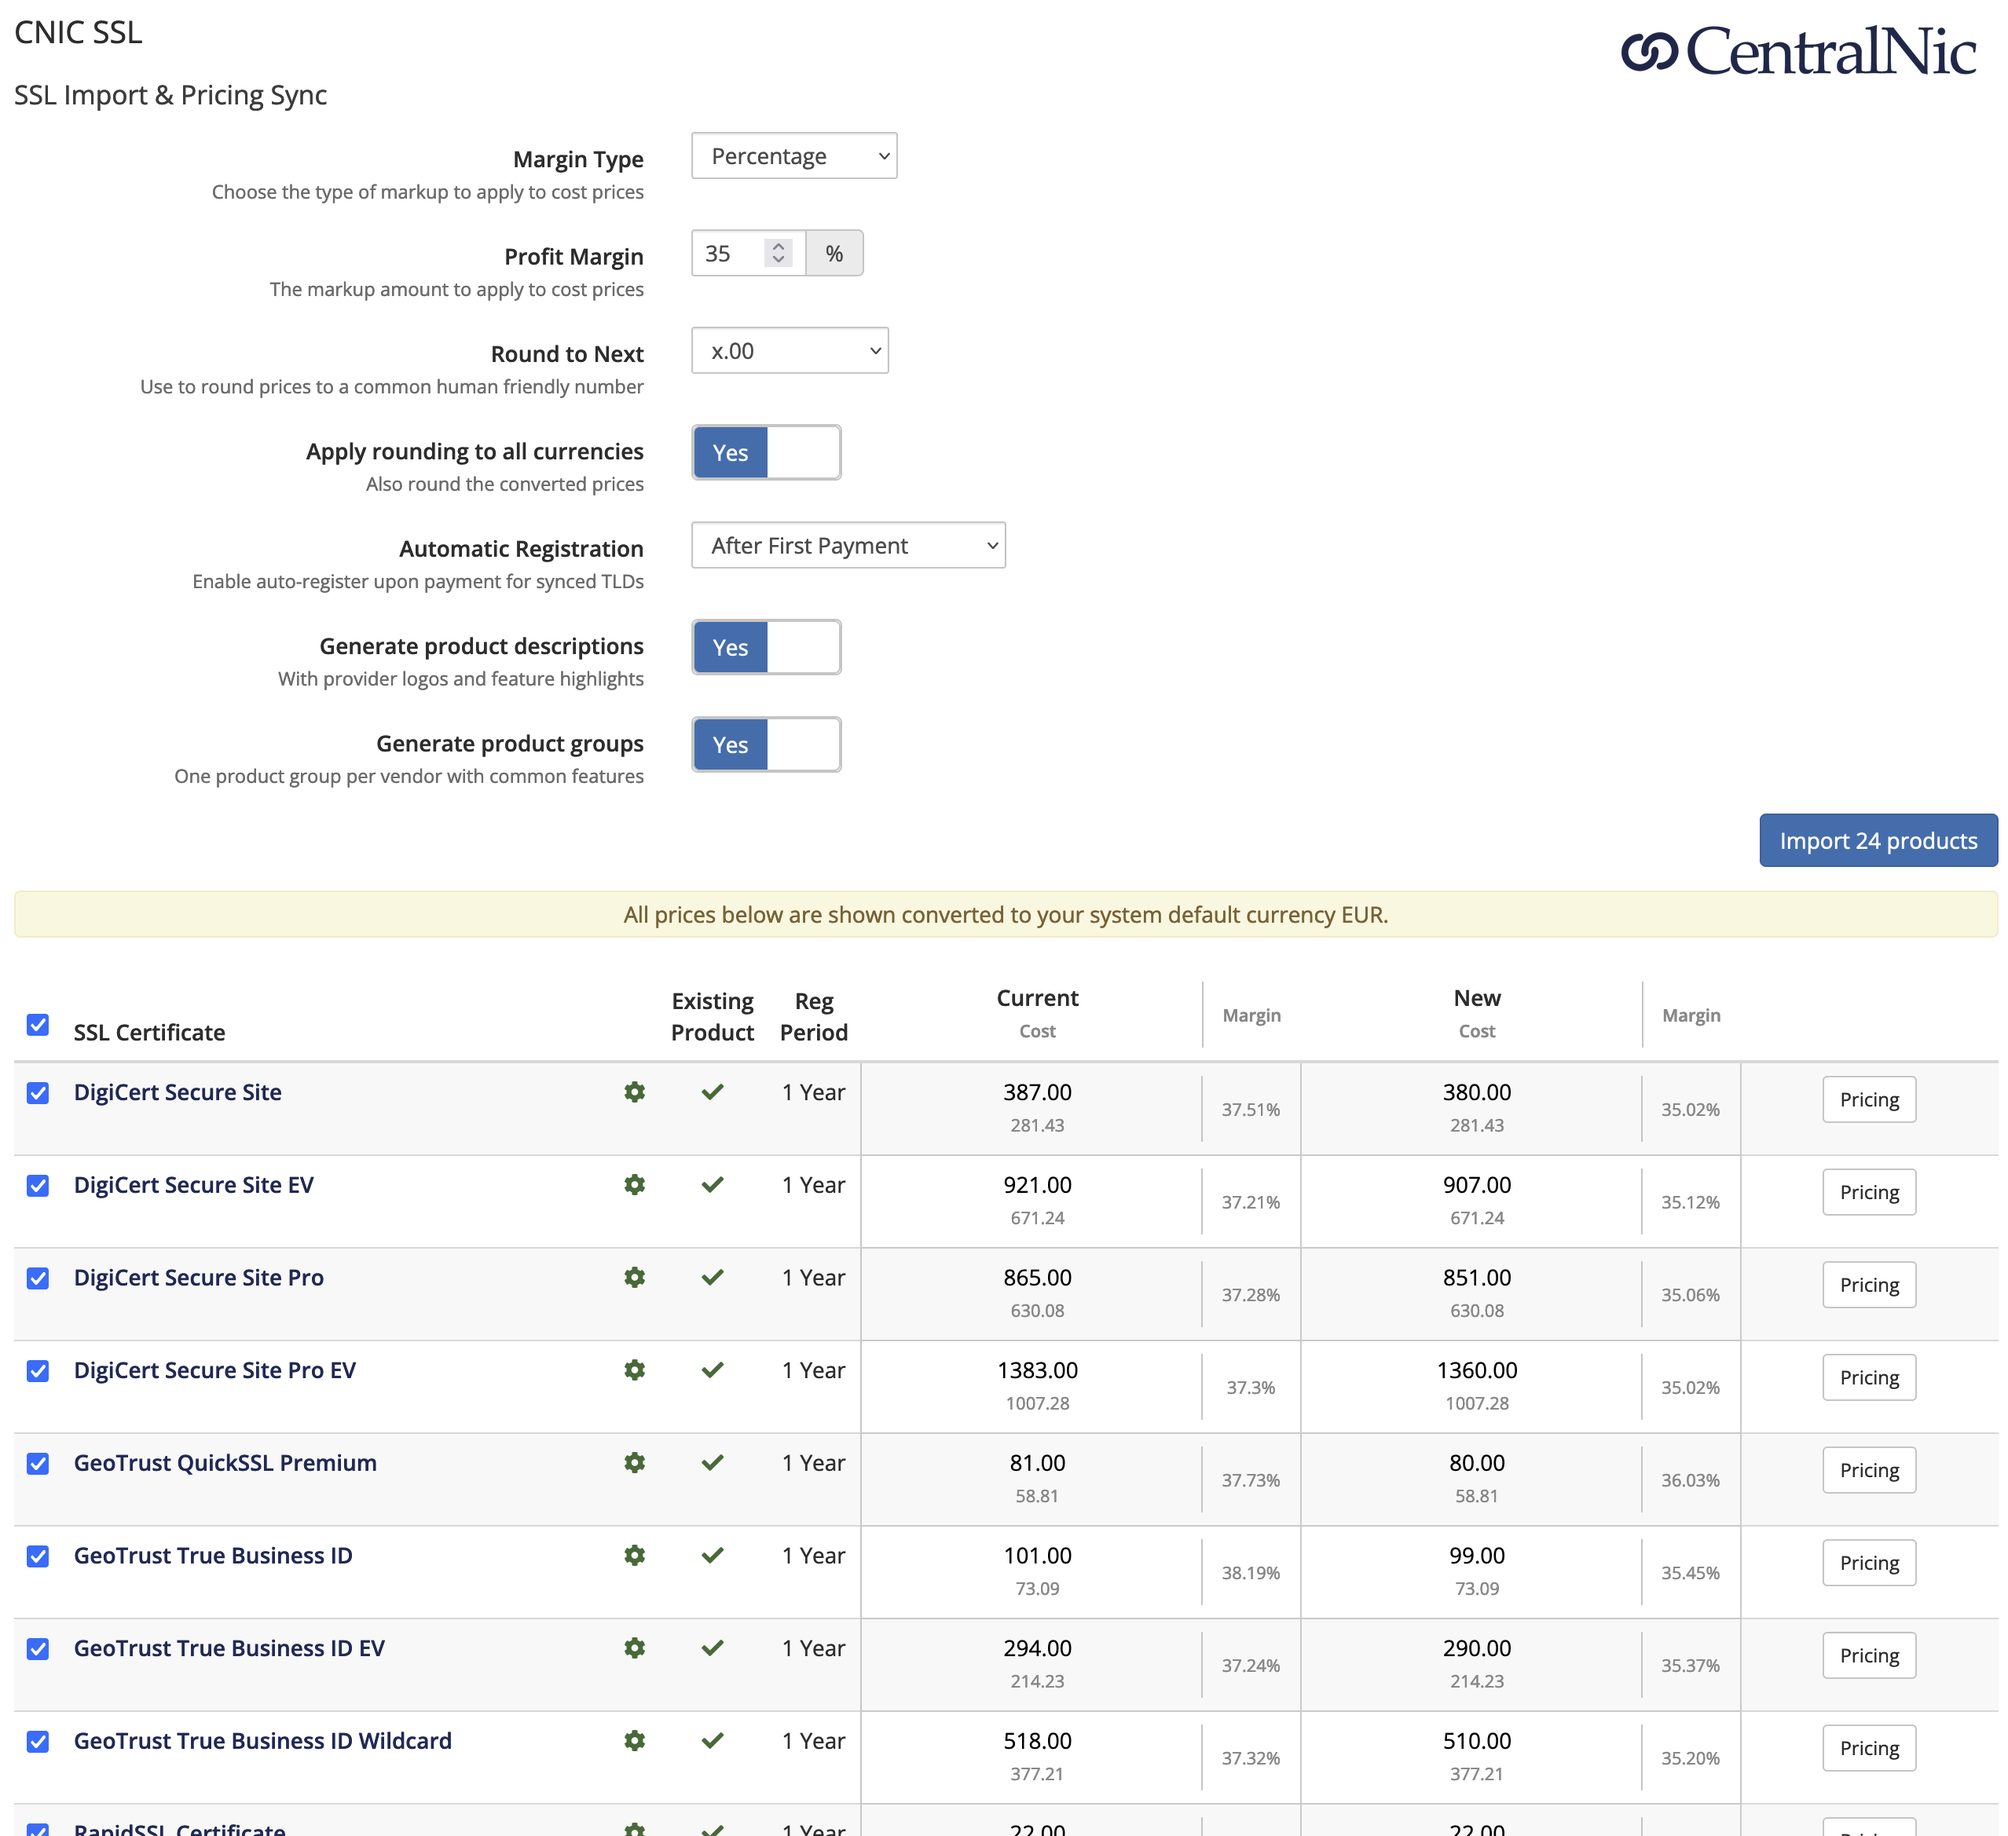
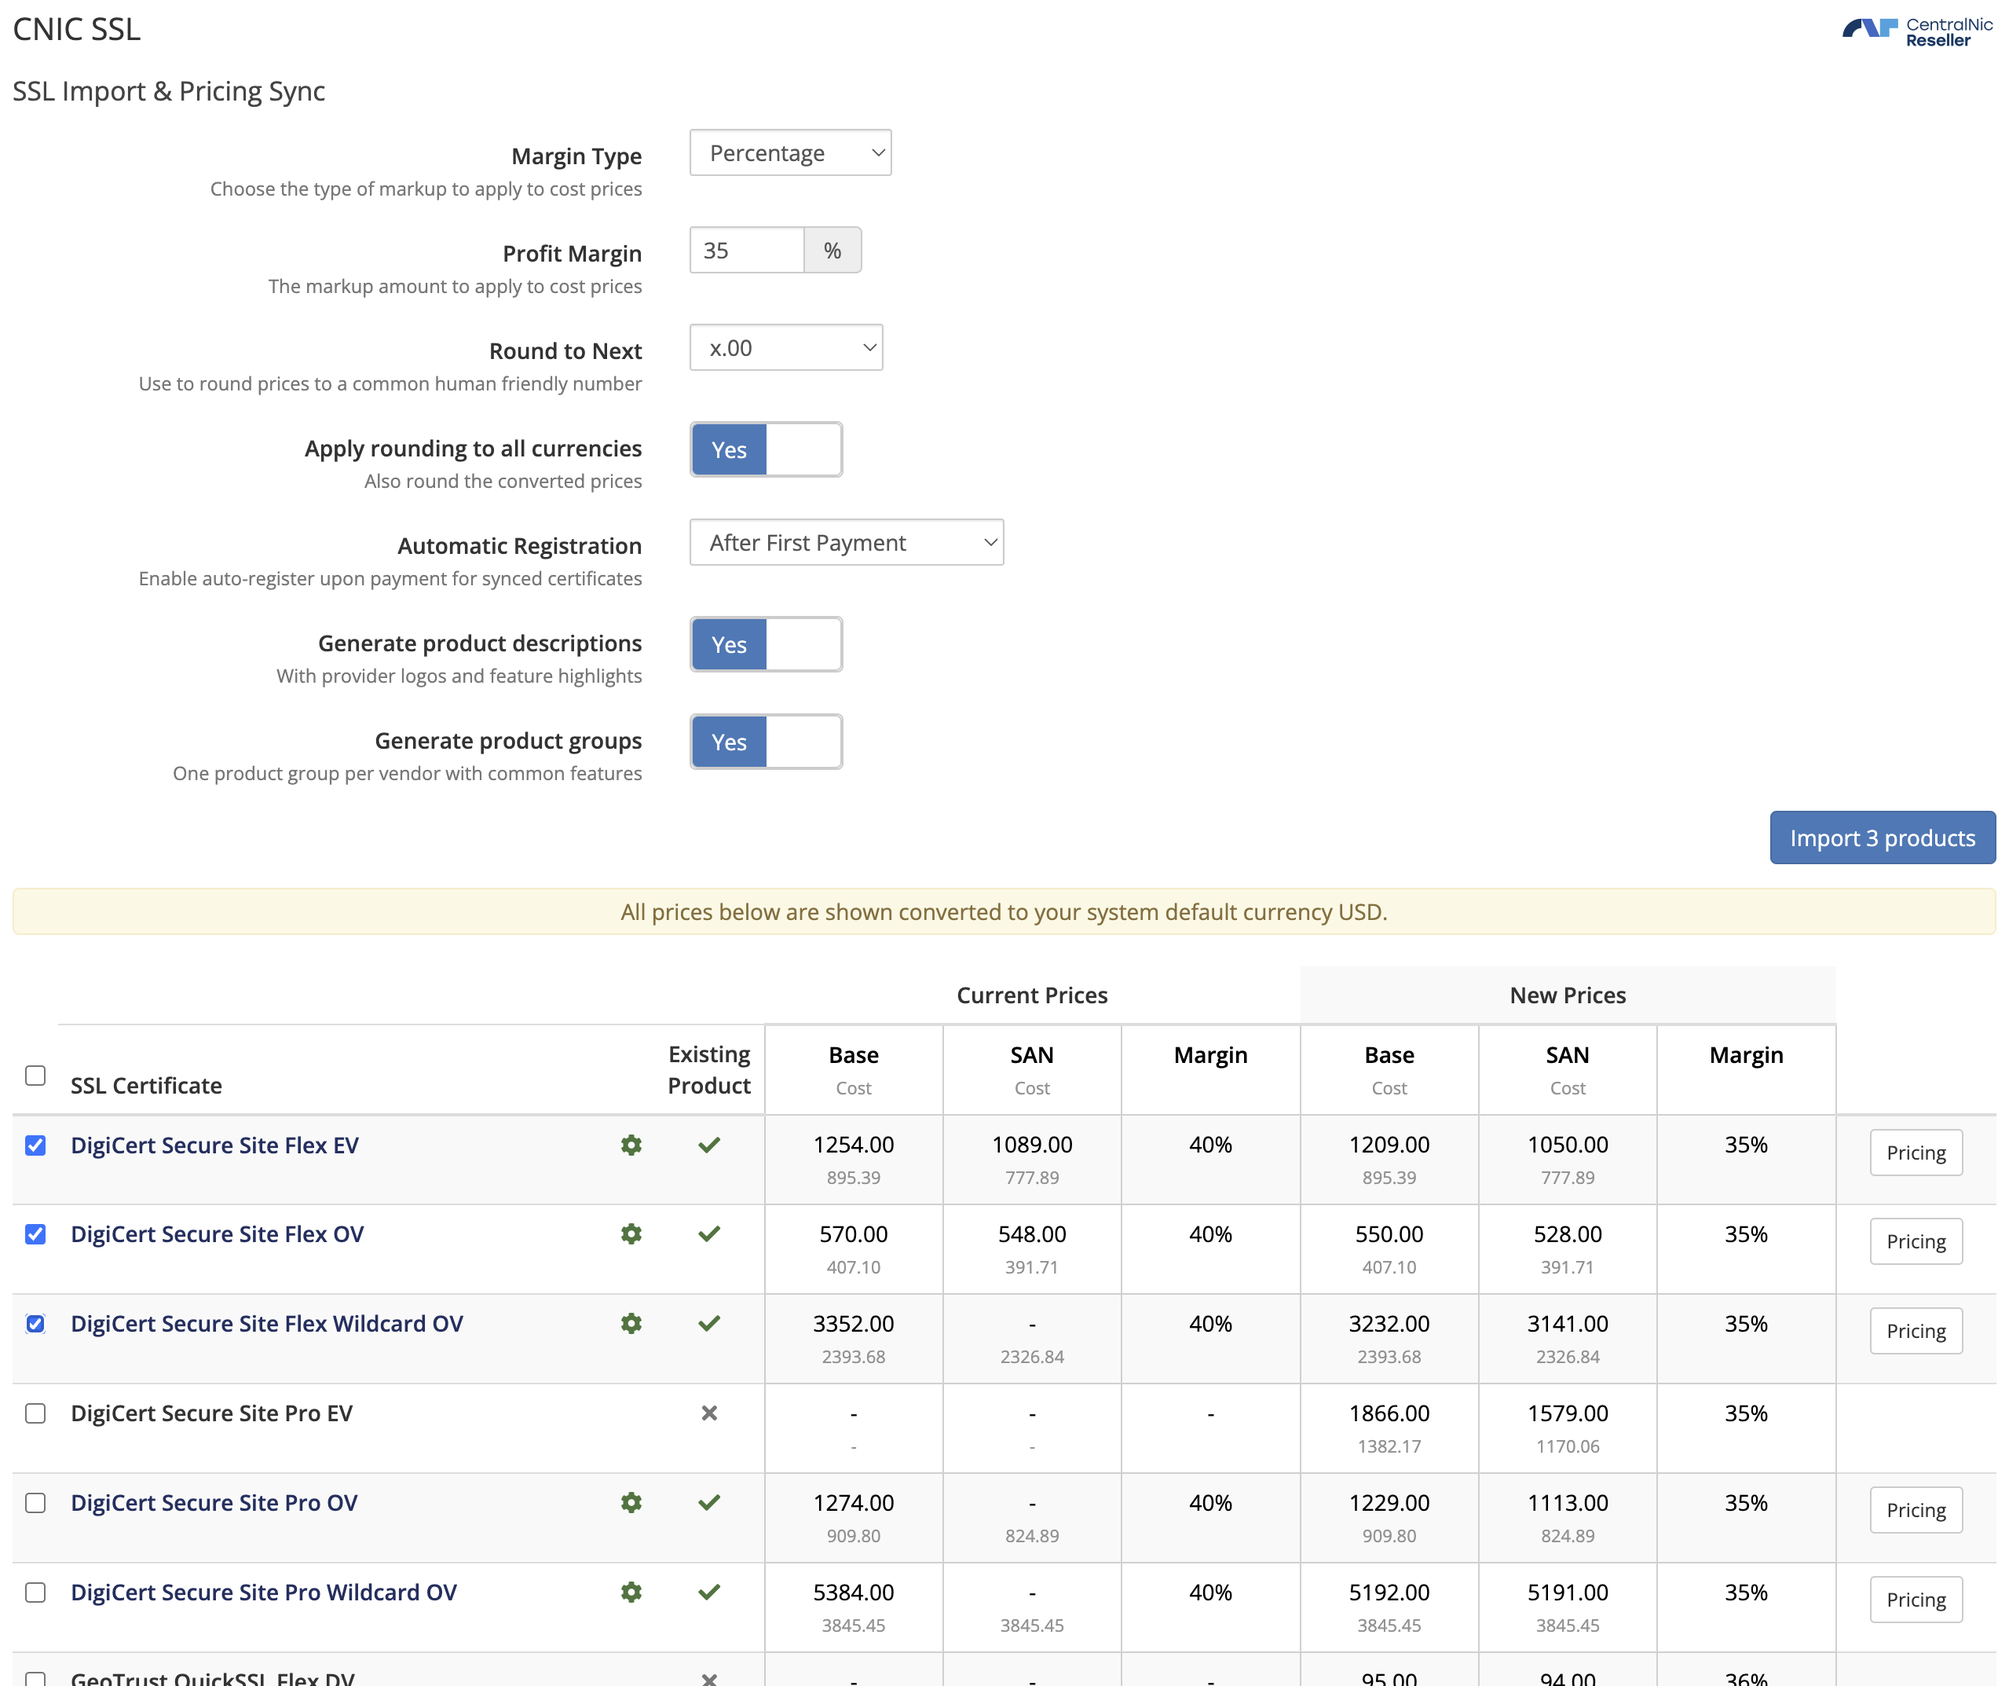
docs(whmcs ssl): update documentation for new CNR features

diff --git a/_includes/whmcs-ssl.md b/_includes/whmcs-ssl.md
@@ -19,6 +19,7 @@ The CNIC SSL Module supports the following functions and features:
   - Support for both productive and test (OT&E) environments
   - Create, renew and revoke certificates
   - Support for Email, DNS and File based domain validation methods
+  - Support for certificates with multiple domains (SAN - CentralNic Reseller only)
 - SSL addon
   - Import available SSL certificates
   - Bulk price update by using a profit margin
@@ -50,6 +51,14 @@ Extract/copy all contents from the zip archive to your WHMCS installation root d
 ### Upgrading
 
 {% include whmcs-bundle-upgrade.md %}
+
+### CentralNic Reseller API Upgrade
+
+If you were using an older version of this module and still have legacy certificates, you will need to trigger the certificate migration to the new API v2.
+To check if you have any legacy certificates, log in to your CentralNic Reseller Web Interface and navigatre to `SSL` > `Certificates [LEGACY]`. Please note that only active certificates will be migrated.
+
+To migrate legacy certificates, you must open the `CNIC SSL` Addon. Migration will then happen automatically.
+If you do not have the Addon installed or enabled, please follow the instructions below.
 
 ## SSL Addon
 
@@ -98,6 +107,7 @@ However it is possible to do so manually, if desired.
 Within the WHMCS Admin area, navigate to `Setup > System Settings > Products/Services`
 
 1. Create a new product group. In this example, we will name the new group as “SSL Certificates”.
+
 2. Create a new product.
    - Set Product Type to "Other".
    - Set Product Group as desired.
@@ -125,16 +135,40 @@ Within the WHMCS Admin area, navigate to `Setup > System Settings > Products/Ser
      - For CentralNic Reseller:
        1. Log into your [Web Interface](https://account.centralnicreseller.com/)
        2. In the Menu, open `SSL > Certificate Prices`
-       3. The value shown in the `Type` column would be the certificate class you need to specify
+       3. The value shown in the `Item` column would be the certificate class you need to specify
    - Set “Automatically setup the product as soon as the first payment is received” to ensure the certificate is paid for before registration.
 
      ![Module Settings]({{ 'assets/images/whmcs/cnic-ssl/modulesettings_tab.png' | relative_url }})
 
 6. Click `Save changes`.
 
+### Manually create Configurable Options (CentralNic Reseller only!)
+
+This allows you to offer additional domains (SAN) with an additional fee to your customers.
+
+Within the WHMCS Admin area, navigate to `Setup > System Settings > Configurable Options`
+
+1. Click `Create a New Group`
+   - Give it a name. We recommend somthing like "Certificate name - Options".
+   - Assign it to the desired certificate.
+   - Click `Save changes`.
+
+2. Click `Add New Configurable Option`
+   - Name it "Additional Domains (SAN)" or something similar. This is what the customer will see when ordering.
+   - Set option type to `Quantity`.
+   - Set the maximum allowed additional domains. Most certificates allow up to 24.
+   - Set `Add Option` to the same name you gave above.
+   - Click `Save changes`.
+   - Set the desired annual pricing.
+   - Click `Save changes` again.
+
+     ![pricing tab]({{ 'assets/images/whmcs/cnic-ssl/configurable_options.png' | relative_url }})
+
+3. Close the popup window.
+
 ### Manage imported Prices
 
-Managing imported certificates can be done at `Setup > System Settings > Products/Services`
+Managing imported certificates can be done at `Setup > System Settings > Products/Services` and `Setup > System Settings > Configurable Options`
 
 ![manageimportedcerti]({{ 'assets/images/whmcs/cnic-ssl/manage_imported_certificates.png' | relative_url }})
 
@@ -158,7 +192,7 @@ This is how a client would proceed to order an SSL certificate.
 
    ![buy-cert01]({{ 'assets/images/whmcs/cnic-ssl/buy_a_certificate_01.png' | relative_url }})
 
-5. On this configuration page, the module will prefill the contact information and auto generate a CSR based on the domain provided and your client information. At this point, you are free to alter any information and replace the proposed CSR with your own if you wish.
+5. On this configuration page, the module will prefill the contact information. The customer must provide the CSR required for requesting the certificate. The certificate will be validated to make sure the desired certificate class can be ordered.
 
    ![buycert02]({{ 'assets/images/whmcs/cnic-ssl/buy_a_certificate_02.png' | relative_url }})
 
@@ -173,4 +207,7 @@ This is how a client would proceed to order an SSL certificate.
 
 8. Follow the instructions you will get via e-mail from the Certificate Authority to validate your purchase.
    If you chose `DNS` or `HTTP File` validation, just follow the instructions that are presented to you in the confirmation screen.
+
 9. It might take some minutes after validation until the certificate shows up in the client area
+
+To expedite the validation, the customer may click the `Trigger Validation Check` option in the menu.
